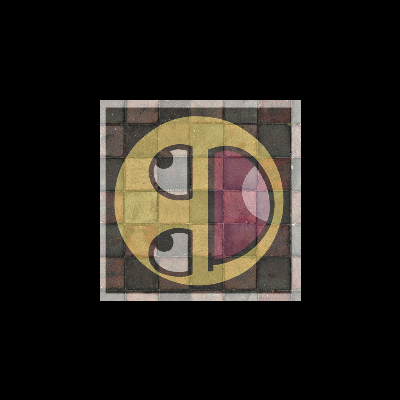
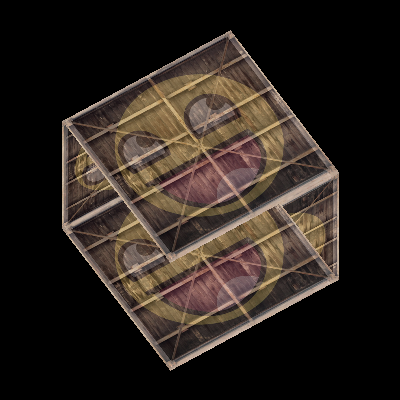
ztest

diff --git a/src/render/pipline.cpp b/src/render/pipline.cpp
@@ -22,6 +22,7 @@ void Pipeline::init(const int w, const int h) {
     w_ = w;
     h_ = h;
     setImage(w, h, 3);
+    z_buffer_.resize(w_ * h_, FLT_MAX);
 }
 
 void Pipeline::setImage(int w, int h, int c) {
@@ -38,6 +39,7 @@ void Pipeline::vertexShader() {
     auto &uvs = mesh_->getUvs();
     screen_vertices_.resize(vertices.size());
     screen_uvs_.resize(uvs.size());
+    zs_.resize(vertices.size());
     for(int j = 0; j < vertices.size(); ++j) {
         Vec3f &vertex = vertices[j];
         Vec2f &uv = uvs[j];
@@ -53,6 +55,7 @@ void Pipeline::vertexShader() {
         x = h_ - x;
         screen_vertices_[j] = Vec2f(x, y);
         screen_uvs_[j] = vs->uv;
+        zs_[j] = vertex.z;
     }
 
 }
@@ -137,6 +140,15 @@ void Pipeline::rasterAndFragmentShader() {
                         Vec3f bc = barycentric(A, B, C, P);
                         if(bc.x < 0 || bc.y < 0 || bc.z < 0) continue;  // 点不在三角形中
                         
+                        // early - z测试
+                        if(context_.ifZtest) {
+                            float z = bc.x * zs_[vertex_indice.x] + bc.y * zs_[vertex_indice.y] + bc.z * zs_[vertex_indice.z];
+                            if(z_buffer_[x * w_ + y] > z) {    // 通过深度测试
+                                z_buffer_[x * w_ + y] = z;
+                            }
+                            else continue;
+                        }
+
                         // 插值纹理
                         fs->uv = Vec2f(0.0f, 0.0f);
                         fs->uv += bc.x * screen_uvs_[vertex_indice.x];

diff --git a/src/math/mat4.h b/src/math/mat4.h
@@ -1,5 +1,6 @@
 // make by hyq
 // 2022/3/19
+#pragma once
 
 #include "vec4.h"
 #include "vec3.h"
@@ -45,14 +46,14 @@ struct Mat4
         Vec4f ans;
         for(int i = 0; i < 4; ++i) {
             for(int j = 0; j < 4; ++j) {
-                ans[i] = arr[i][j] * vec[j];
+                ans[i] += arr[i][j] * vec[j];
             }
         }
         return ans;
     }
 };
 
-inline Mat4 translate(Vec3f &vec) {
+inline Mat4 getTranslate(Vec3f &vec) {
     Mat4 mat;
     mat.arr[0][3] = vec[0];
     mat.arr[1][3] = vec[1];
@@ -61,7 +62,7 @@ inline Mat4 translate(Vec3f &vec) {
     return mat;
 }
 
-inline Mat4 scale(Vec3f &vec) {
+inline Mat4 getScale(Vec3f &vec) {
     Mat4 mat;
     mat.arr[0][0] = vec[0];
     mat.arr[1][1] = vec[1];
@@ -73,7 +74,7 @@ inline Mat4 scale(Vec3f &vec) {
 enum AXIS {X, Y, Z};
 
 // theta是弧度值
-inline Mat4 rotate(Vec3f &vec, AXIS I, float theta) {
+inline Mat4 getRotate(AXIS I, float theta) {
     Mat4 mat;
     float cos_theta = cos(theta);
     float sin_theta = sin(theta);
@@ -104,13 +105,13 @@ inline Mat4 rotate(Vec3f &vec, AXIS I, float theta) {
     return mat;
 }
 
-    Mat4 ortho(float left, float right, float bottom, float top, float znear, float zfar) {
+    inline Mat4 getOrtho(float left, float right, float bottom, float top, float znear, float zfar) {
         Mat4 ans;
 
         return ans;
     }
 
-    Mat4 perspective(float fovx, float aspect, float znear, float zfar) {
+    inline Mat4 getPerspective(float fovx, float aspect, float znear, float zfar) {
         Mat4 ans;
 
         return ans;

diff --git a/src/shader/base_shader.h b/src/shader/base_shader.h
@@ -7,6 +7,7 @@
 #include "../math/vec3.h"
 #include "../render/texture.h"
 #include "../render/builtin_fun.h"
+#include "../math/mat4.h"
 
 // 对应 https://learnopengl-cn.github.io/01%20Getting%20started/04%20Hello%20Triangle/
 // 正交变换画出基本的三角形
@@ -14,19 +15,19 @@
 class BaseVSShader : public VertexShader{
 public:
     // in
+    Math::Mat4 rotate;
     Math::Vec3f pos;
     Math::Vec2f uv;
 
     // out
 
     void execute() override {
-        gl_position = Math::Vec4f(pos.x, pos.y, pos.z, 1.0f) / 10.f;
+        gl_position = rotate * Math::Vec4f(pos.x, pos.y, pos.z, 1.0f) / 10.f;
     }
 };
 
 class BaseFSShader : public FragmentShader {
 public:
-
     Texture* texture1;
     Texture* texture2;
     // out
@@ -34,7 +35,7 @@ public:
     Math::Vec2f uv;
 
     void execute() override {
-        frag_color = lerp<Math::Vec3f>(texture1->sample(uv.u, uv.v), texture2->sample(uv.u, uv.v), 0.4);
+        frag_color = lerp<Math::Vec3f>(texture1->sample(uv.u, uv.v), texture2->sample(uv.u, uv.v), 0.2);
         //frag_color = texture1->sample(uv.u, uv.v);
     };
 };

diff --git a/src/test/pipeline_test.h b/src/test/pipeline_test.h
@@ -18,11 +18,15 @@ void drawCube() {
     texture2.setMode(TextureMode::LINEAR);
 
     Texture texture1;
-    texture1.load(current_path + "assets/wall.jpg");
+    texture1.load(current_path + "assets/container.jpg");
     texture1.setMode(TextureMode::LINEAR);
+
+    Mat4 rotateX = getRotate(AXIS::X, 1.0f);
+    Mat4 rotateY = getRotate(AXIS::Y, 1.0f);
 
     shared_ptr<VertexShader> vs = make_shared<BaseVSShader>();
     shared_ptr<FragmentShader> fs = make_shared<BaseFSShader>();
+    dynamic_pointer_cast<BaseVSShader>(vs)->rotate = rotateX * rotateY;
     dynamic_pointer_cast<BaseFSShader>(fs)->texture1 = &texture1; // 纹理绑定
     dynamic_pointer_cast<BaseFSShader>(fs)->texture2 = &texture2; // 纹理绑定
     pipeline.setVertexShader(vs);
@@ -134,5 +138,6 @@ void drawCube() {
     };
     mesh->moveUvs(uvs);
     pipeline.setPolygonMode(Mode::FILL);
+    pipeline.setZtest(true);
     pipeline.renderMesh(mesh);
 }

diff --git a/src/render/pipline.h b/src/render/pipline.h
@@ -29,6 +29,7 @@ public:
 
     // 设置context
     void setPolygonMode(Mode mode) { context_.mode = mode; }
+    void setZtest(bool if_test) {context_.ifZtest = if_test; }
 
 private:
     Context context_;
@@ -42,7 +43,9 @@ private:
 
 private:
     std::vector<Math::Vec2f> screen_vertices_; // 经过坐标变换到显示窗口坐标系的顶点位置
+    std::vector<float> zs_;
     std::vector<Math::Vec2f> screen_uvs_;  // 光栅化之后的坐标的uv值
+    std::vector<float> z_buffer_;
 };
 
 Math::Vec3f barycentric(Math::Vec2f A, Math::Vec2f B, Math::Vec2f C, Math::Vec2f P);  // 计算一点在三角形中的重心坐标

diff --git a/src/test/math_test.h b/src/test/math_test.h
@@ -6,8 +6,8 @@
 using namespace Math;
 
 void mathTest() {
-    Mat4 mat1 = translate(Vec3f(1.0f, 2.0f, 3.0f));
-    Mat4 mat2 = scale(Vec3f(2.0f, 2.0f, 2.0f));
+    Mat4 mat1 = getTranslate(Vec3f(1.0f, 2.0f, 3.0f));
+    Mat4 mat2 = getScale(Vec3f(2.0f, 2.0f, 2.0f));
     Mat4 mat3 = mat1 * mat2;
 
     for(int i = 0; i < 4; ++i) {

diff --git a/src/render/context.h b/src/render/context.h
@@ -10,6 +10,7 @@ enum class TextureMode { LINEAR, NEAREST };
 class Context {
 public:
     Mode mode;  // 绘制的模式：线框还是填充
+    bool ifZtest;
 
     Context();
     ~Context();
